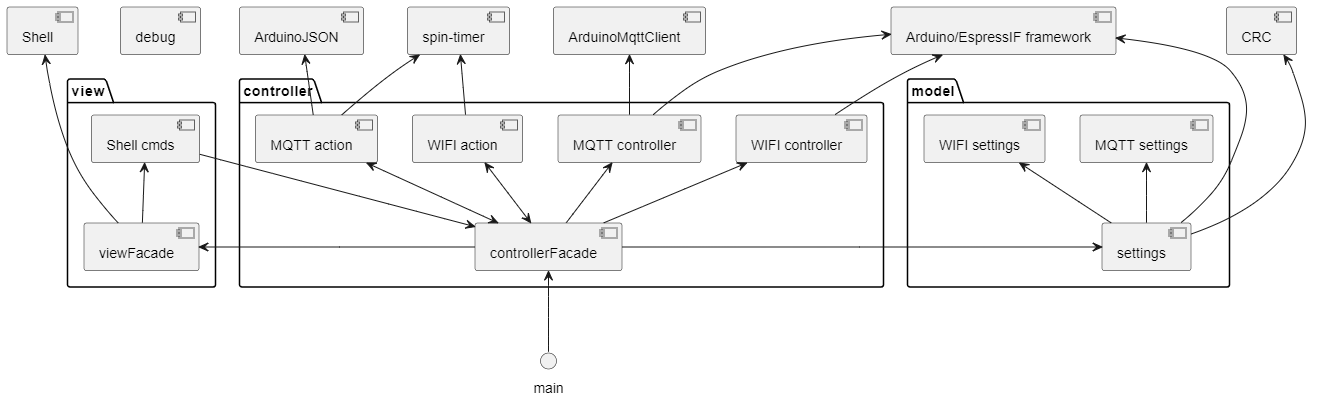
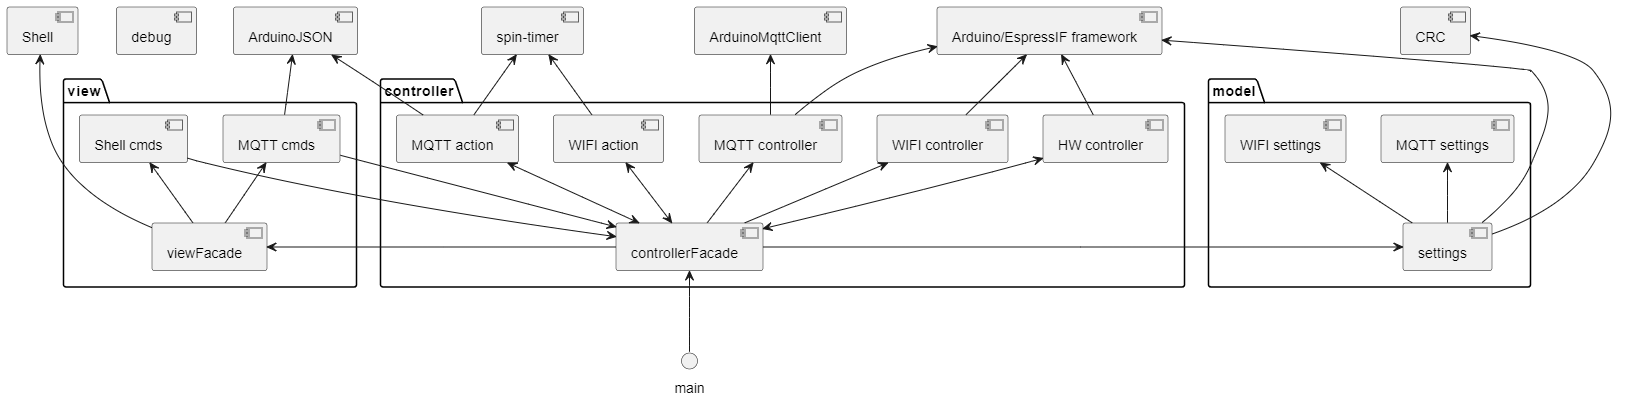
diagrams added

diff --git a/README.md b/README.md
@@ -9,13 +9,15 @@ With this project you have a good starting point to create your own internet-of-
 ## Features
 
  * *Configurable*: The WIFI network and the MQTT broker needed for the IoT functionality can be configured via the serial interface without the need of re-compiling and deploying the source code.
- * *Error tolerant*: The device is able to reconnect to a MIFI network or to the MQTT broker after a loss of connection occured without the need to reboot the device.
+ * *Error tolerant*: The device is able to reconnect to a WIFI network or to the MQTT broker after a loss of connection occured without the need to reboot the device.
  * *CRC data protection*: The settings stored in the flash of the device are protected by a 32bit CRC.  
  * *MVC architecture*: The software is seperated in to the _model_ with the data used by the controller, the _view_ providing the text-based user interface (shell commands) and the _controller_, which holds the modules responsible for handling the functionality and to glue everything together.  
 
 ## Short IoT introduction
 
 The Internet of things (IoT) describes devices with sensors or actuators which are able to connect to other devices over the internet. For that purpose, each IoT device connects to an _MQTT broker_ -- an internet server which is responsible to collect and forward messages to other devices. 
+
+![IoT overview](doc/iot_overview.png)
 
 ### Providing information
 An IoT device can send messages to a specific _topic_ to the broker. The broker than distributes the information further. For example, a IoT thermometer can provide the messured temperature and humidity to the world.  
@@ -40,7 +42,28 @@ TODO
 ## wifi connect
 
 
+# MQTT message interface
 
+UID = 30973702185336
+
+Topic: iotdevice/30973702185336/command
+Message: 
+```
+{"operation":"setled","number":0,"value":1}
+```
+
+
+Topic: iotdevice
+```
+{"uid":30973702185336,"analog":1.379633665}
+```
+
+# Electrical interfaces
+
+WIFI-LED: GPIO 2 
+MQTT-LED: GPIO 16
+USER-LED: GPIO 17
+Analog in: GPIO 32 (ADC1_CH4)
 
 
 # Software Architecture
@@ -68,17 +91,23 @@ TODO
 
 ### WIFI controller
 
-![Class diagram](doc/class_diagram_controller_wifi.png)
-![State diagram](doc/state_diagram_controller_wifi.png)
+![WIFI class diagram](doc/class_diagram_controller_wifi.png)
+![WIFI state diagram](doc/state_diagram_controller_wifi.png)
 
 #### WIFI actions
 
 ### MQTT controller
 
-![Class diagram](doc/class_diagram_controller_mqtt.png)
-![State diagram](doc/state_diagram_controller_mqtt.png)
+![MQTT class diagram](doc/class_diagram_controller_mqtt.png)
+![MQTT state diagram](doc/state_diagram_controller_mqtt.png)
 
 #### MQTT actions
+
+
+
+## Bootup process
+
+![Bootup activity diagram](doc/activitiy_diagram_bootup.png)
 
 
 # SOUP
@@ -102,19 +131,24 @@ TODO
 # Development tools
 
 ## Visual Studio Code
+1.77.3
 
 ## VSCode plugin C/C++
+1.18.3
 
 ## VSCode plugin PlatformIO IDE
+3.1.1
 
 ## VSCode plugin PlantUML
-
+2.17.5
 
 
 
 # Additional information
 
 ## Create a new project based on this IoT skeleton application
+
+TODO
 
 To use *wiring-skeleton* as a template for a new project, it has to be forked locally.
 
